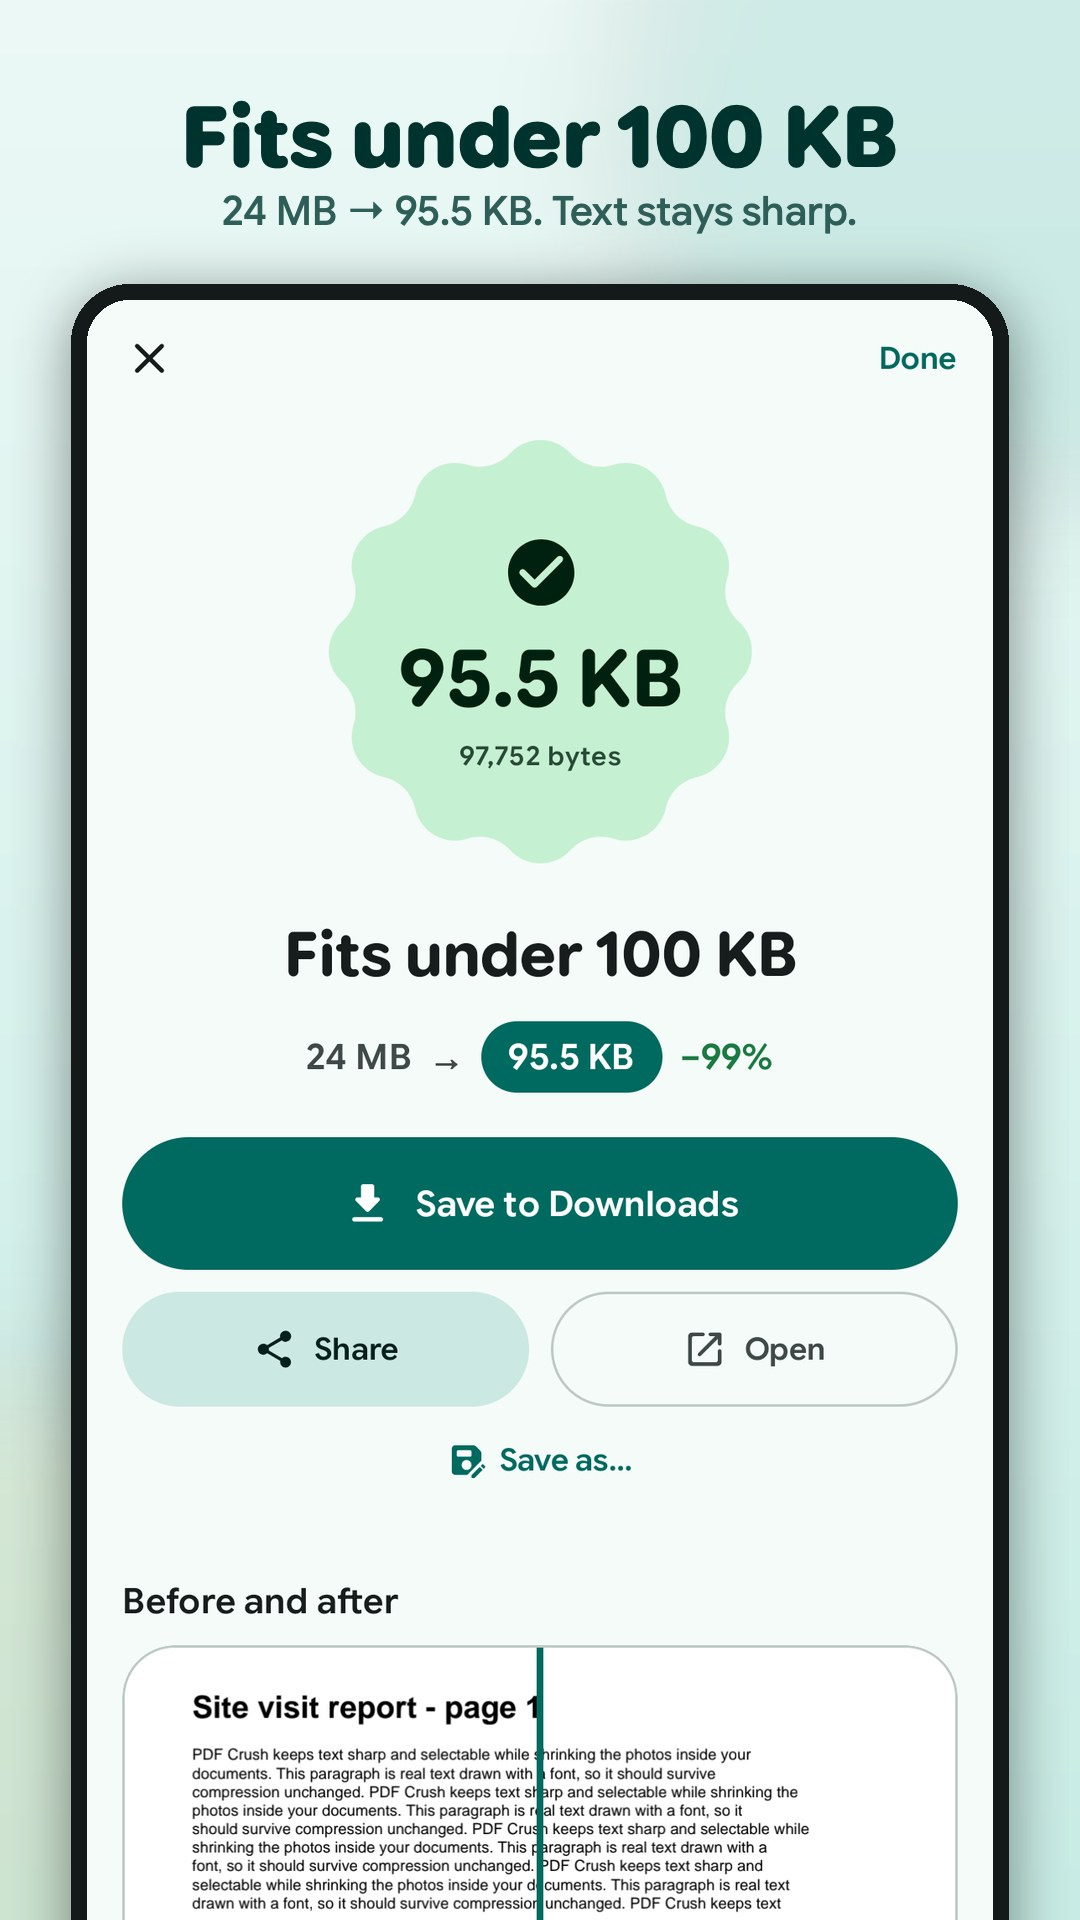
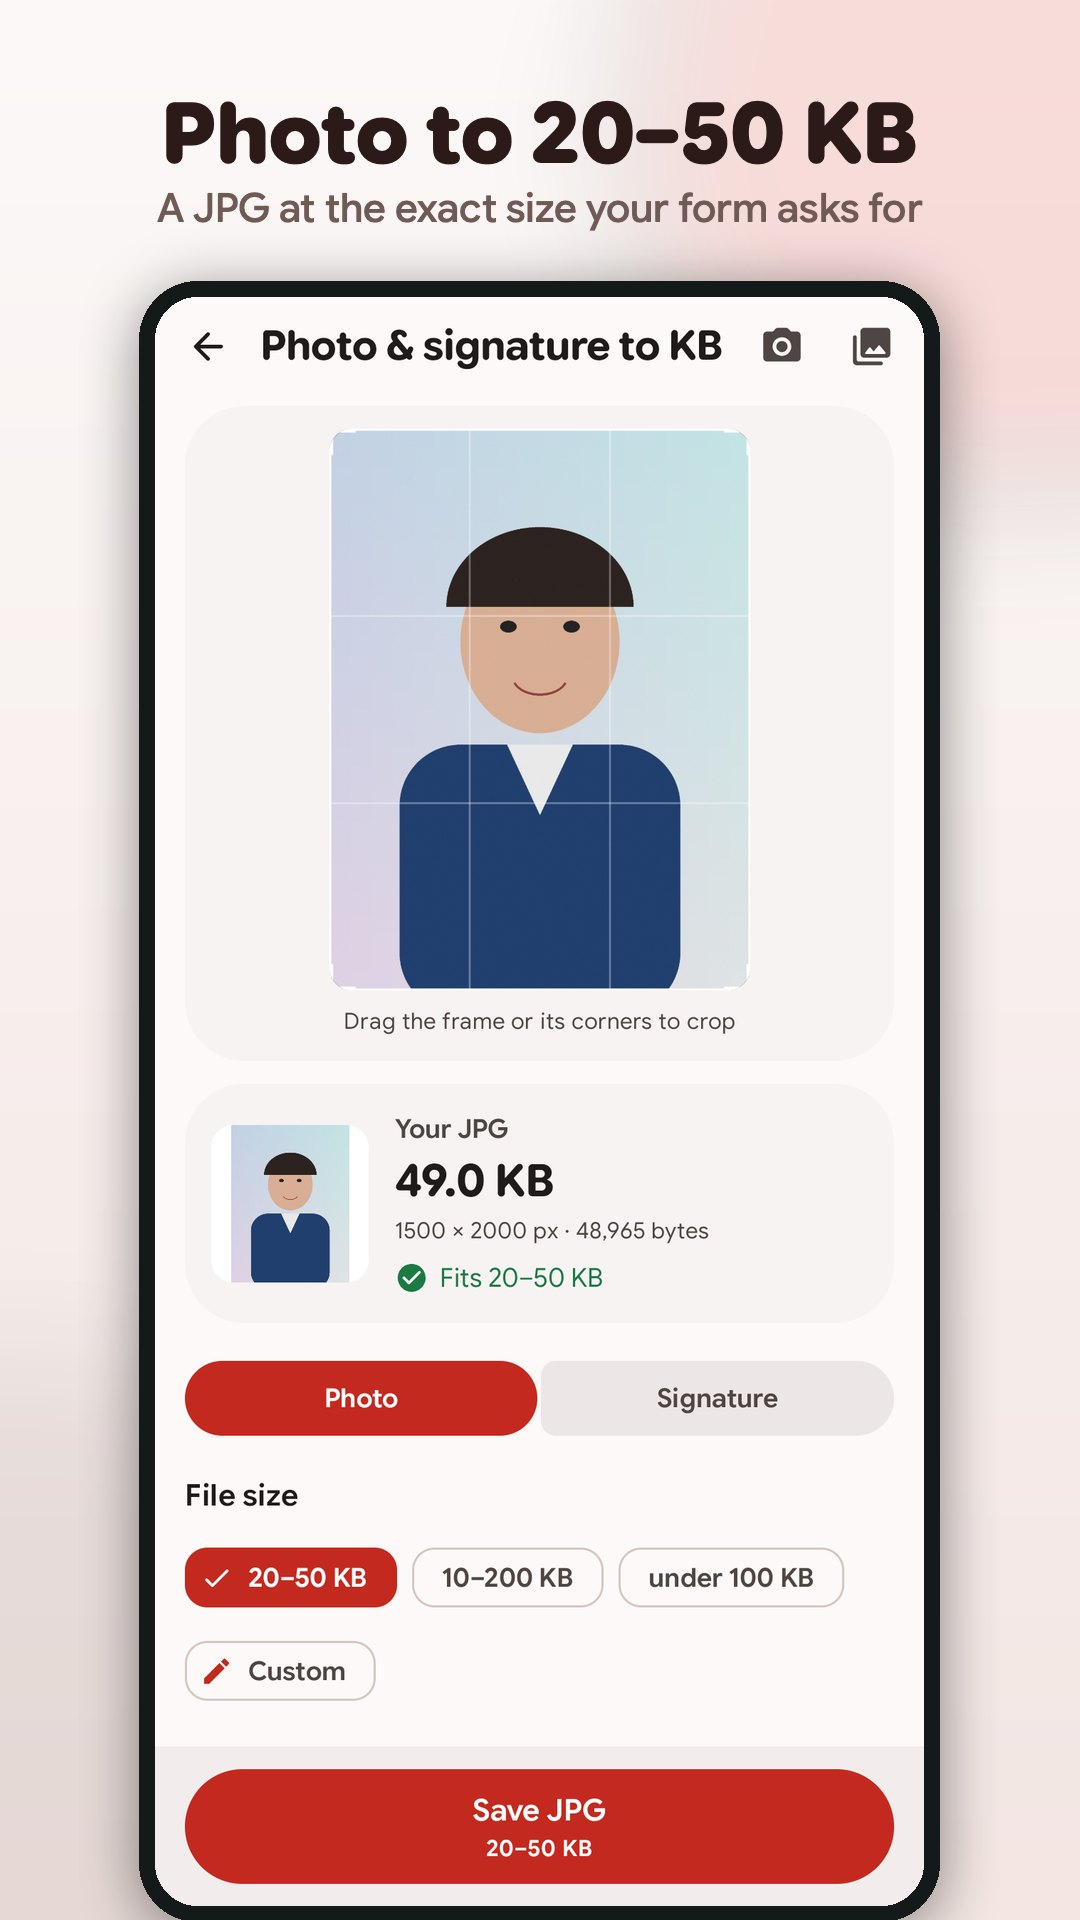
FitMyPDF rename (formerly PDF Crush)

diff --git a/press/pdf-crush.html b/press/pdf-crush.html
@@ -1,1 +1,1 @@
-<!doctype html><html lang="en"><head><meta charset="utf-8"><meta name="viewport" content="width=device-width,initial-scale=1"><title>PDF Crush press kit</title><meta name="description" content="Compress a PDF to the exact KB limit a form asks for. Free, no ads, works offline."><style>body{font:16px/1.6 system-ui,-apple-system,Segoe UI,Roboto,sans-serif;max-width:860px;margin:0 auto;padding:24px 16px;color:#1f2937;background:#fff}h1{font-size:26px;margin:.2em 0}h2{font-size:19px;margin-top:28px}a{color:#0b5cad}li{margin:4px 0}table{border-collapse:collapse}td{padding:4px 12px 4px 0;vertical-align:top}td:first-child{color:#6b7280;white-space:nowrap}.head{display:flex;gap:16px;align-items:center}.head img{width:88px;height:88px;border-radius:20px}.shots{display:grid;grid-template-columns:repeat(auto-fill,minmax(130px,1fr));gap:10px}.shots img{width:100%;border-radius:8px;border:1px solid #e5e7eb}.cards{display:grid;gap:14px}.card{display:flex;gap:14px;align-items:center;border:1px solid #e5e7eb;border-radius:12px;padding:12px}.card img{width:64px;height:64px;border-radius:14px}footer{margin-top:40px;color:#6b7280;font-size:14px}@media(prefers-color-scheme:dark){body{background:#111827;color:#e5e7eb}a{color:#7cb4f5}.card,.shots img{border-color:#374151}}</style></head><body><p><a href="./">Press kit</a></p><div class="head"><img src="pdfcrush-icon.png" alt="PDF Crush icon"><div><h1>PDF Crush: Compress PDF to KB</h1><div>Compress a PDF to the exact KB limit a form asks for. Free, no ads, works offline.</div></div></div><h2>About</h2><p>Exam, job and government portals reject uploads that miss a size limit: under 100 KB, under 200 KB, or &quot;between 50 KB and 300 KB&quot;. PDF Crush is a free Android app built for exactly that. Type the size you need and it finds the best quality that fits, keeping text sharp and selectable whenever the size allows; if a form also sets a minimum, a file that is too small is made bigger to meet it. It scans paper straight to a PDF at the size you choose, opens large PDFs quickly, and includes merge, split, images-to-PDF and password tools. There are no ads, no watermark and no limits, and the app has no internet permission, so files never leave the phone. A free browser version works on any computer, also without uploading anything.</p><h2>Key facts</h2><table><tr><td>Price</td><td>Free. No ads, no in-app purchases, no watermark, no daily limits</td></tr><tr><td>Platform</td><td>Android 8.1 and newer</td></tr><tr><td>Current version</td><td>3.1.0 (November 2026)</td></tr><tr><td>Languages</td><td>English, Hindi, Bengali, Indonesian, Portuguese, Spanish, Arabic, Vietnamese, Turkish, French</td></tr><tr><td>Web version</td><td><a href="https://dev114453.github.io/tools/compress-pdf.html">dev114453.github.io/tools/compress-pdf.html</a> (runs in the browser; the file is not uploaded)</td></tr><tr><td>Developer</td><td>developer1021</td></tr><tr><td>Google Play</td><td><a href="https://play.google.com/store/apps/details?id=com.pdfcompress.start">https://play.google.com/store/apps/details?id=com.pdfcompress.start</a></td></tr><tr><td>Press contact</td><td><a href="mailto:devloper1021@gmail.com">devloper1021@gmail.com</a></td></tr></table><h2>What is different</h2><ul><li>Compress to a target size (50 KB, 100 KB, 200 KB, 300 KB, 500 KB, 1 MB, 2 MB or any number), not a vague quality slider</li><li>A minimum size too, for forms that say &quot;50 to 300 KB&quot;: too-small files are made bigger</li><li>Text stays selectable when the size allows; if pages have to become images, the app says so</li><li>The result shows the exact size down to the byte and whether it fits</li><li>Document scanner that saves straight to 100 KB, 200 KB or 50 to 300 KB; black-and-white mode is often under 50 KB a page</li><li>Fast reader for 100+ MB, 150-page PDFs, with day, sepia and night modes</li></ul><h2>Privacy</h2><ul><li>No internet permission: the app cannot upload files</li><li>No storage permission, no account, no sign-in</li><li>Originals are never overwritten; results go to Downloads/PDF Crush</li><li>No ads and no analytics</li></ul><h2>Screenshots</h2><p>Click for full size (1080 x 1920). <a href="pdfcrush-icon.png">App icon (512 x 512)</a>.</p><div class="shots"><a href="pdfcrush-1.jpg"><img src="pdfcrush-1.jpg" alt="PDF Crush screenshot 1" loading="lazy"></a><a href="pdfcrush-2.jpg"><img src="pdfcrush-2.jpg" alt="PDF Crush screenshot 2" loading="lazy"></a><a href="pdfcrush-3.jpg"><img src="pdfcrush-3.jpg" alt="PDF Crush screenshot 3" loading="lazy"></a><a href="pdfcrush-4.jpg"><img src="pdfcrush-4.jpg" alt="PDF Crush screenshot 4" loading="lazy"></a><a href="pdfcrush-5.jpg"><img src="pdfcrush-5.jpg" alt="PDF Crush screenshot 5" loading="lazy"></a><a href="pdfcrush-6.jpg"><img src="pdfcrush-6.jpg" alt="PDF Crush screenshot 6" loading="lazy"></a></div><footer>Press kit by developer1021. Text, screenshots and icons are free to use in coverage with credit to the app name. Contact: <a href="mailto:devloper1021@gmail.com">devloper1021@gmail.com</a></footer></body></html>
+<!doctype html><html lang="en"><head><meta charset="utf-8"><meta name="viewport" content="width=device-width,initial-scale=1"><title>FitMyPDF press kit (formerly PDF Crush)</title><meta name="description" content="Compress a PDF, photo or signature to the exact KB limit a form asks for. Free, no ads, works offline."><style>body{font:16px/1.6 system-ui,-apple-system,Segoe UI,Roboto,sans-serif;max-width:860px;margin:0 auto;padding:24px 16px;color:#1f2937;background:#fff}h1{font-size:26px;margin:.2em 0}h2{font-size:19px;margin-top:28px}a{color:#0b5cad}li{margin:4px 0}table{border-collapse:collapse}td{padding:4px 12px 4px 0;vertical-align:top}td:first-child{color:#6b7280;white-space:nowrap}.head{display:flex;gap:16px;align-items:center}.head img{width:88px;height:88px;border-radius:20px}.shots{display:grid;grid-template-columns:repeat(auto-fill,minmax(130px,1fr));gap:10px}.shots img{width:100%;border-radius:8px;border:1px solid #e5e7eb}.cards{display:grid;gap:14px}.card{display:flex;gap:14px;align-items:center;border:1px solid #e5e7eb;border-radius:12px;padding:12px}.card img{width:64px;height:64px;border-radius:14px}footer{margin-top:40px;color:#6b7280;font-size:14px}@media(prefers-color-scheme:dark){body{background:#111827;color:#e5e7eb}a{color:#7cb4f5}.card,.shots img{border-color:#374151}}</style></head><body><p><a href="./">Press kit</a></p><div class="head"><img src="pdfcrush-icon.png" alt="FitMyPDF icon"><div><h1>FitMyPDF: Compress PDF to KB</h1><div><em>Formerly PDF Crush.</em> Renamed in version 3.3 (November 2026): same app, same Google Play link.</div><div>Compress a PDF, photo or signature to the exact KB limit a form asks for. Free, no ads, works offline.</div></div></div><h2>About</h2><p>Exam, job and government portals reject uploads that miss a size limit: under 100 KB, under 200 KB, or &quot;between 50 KB and 300 KB&quot;. FitMyPDF (formerly PDF Crush) is a free Android app built for exactly that. Type the size you need and it finds the best quality that fits, keeping text sharp and selectable whenever the size allows; if a form also sets a minimum, a file that is too small is made bigger to meet it. It also turns a photo or signature into a JPG of the exact KB range and pixel size a form asks for, with presets read from official notices (JEE Main, NEET UG, UPSC, SSC CHSL). It scans paper straight to a PDF at the size you choose, opens large PDFs quickly, and includes merge, split, images-to-PDF and password tools. There are no ads, no watermark and no limits, and the app has no internet permission, so files never leave the phone. A free browser version works on any computer, also without uploading anything.</p><h2>Key facts</h2><table><tr><td>Price</td><td>Free. No ads, no in-app purchases, no watermark, no daily limits</td></tr><tr><td>Platform</td><td>Android 8.1 and newer</td></tr><tr><td>Current version</td><td>3.3.0 (November 2026)</td></tr><tr><td>Languages</td><td>English, Hindi, Bengali, Indonesian, Portuguese, Spanish, Arabic, Vietnamese, Turkish, French</td></tr><tr><td>Web version</td><td><a href="https://dev114453.github.io/tools/compress-pdf.html">dev114453.github.io/tools/compress-pdf.html</a> (runs in the browser; the file is not uploaded)</td></tr><tr><td>Developer</td><td>developer1021</td></tr><tr><td>Google Play</td><td><a href="https://play.google.com/store/apps/details?id=com.pdfcompress.start">https://play.google.com/store/apps/details?id=com.pdfcompress.start</a></td></tr><tr><td>Press contact</td><td><a href="mailto:devloper1021@gmail.com">devloper1021@gmail.com</a></td></tr></table><h2>What is different</h2><ul><li>Compress to a target size (50 KB, 100 KB, 200 KB, 300 KB, 500 KB, 1 MB, 2 MB or any number), not a vague quality slider</li><li>A minimum size too, for forms that say &quot;50 to 300 KB&quot;: too-small files are made bigger</li><li>Text stays selectable when the size allows; if pages have to become images, the app says so</li><li>The result shows the exact size down to the byte and whether it fits</li><li>Photo &amp; signature to KB: a JPG between, say, 20 and 50 KB or 10 and 20 KB, at the exact pixel size, with a crop frame</li><li>Document scanner that saves straight to 100 KB, 200 KB or 50 to 300 KB; black-and-white mode is often under 50 KB a page</li><li>Fast reader for 100+ MB, 150-page PDFs, with day, sepia and night modes</li></ul><h2>Privacy</h2><ul><li>No internet permission: the app cannot upload files</li><li>No storage permission, no account, no sign-in</li><li>Originals are never overwritten; results go to Downloads/FitMyPDF</li><li>No ads and no analytics</li></ul><h2>Screenshots</h2><p>Click for full size (1080 x 1920). <a href="pdfcrush-icon.png">App icon (512 x 512)</a>.</p><div class="shots"><a href="pdfcrush-1.jpg"><img src="pdfcrush-1.jpg" alt="FitMyPDF screenshot 1" loading="lazy"></a><a href="pdfcrush-2.jpg"><img src="pdfcrush-2.jpg" alt="FitMyPDF screenshot 2" loading="lazy"></a><a href="pdfcrush-3.jpg"><img src="pdfcrush-3.jpg" alt="FitMyPDF screenshot 3" loading="lazy"></a><a href="pdfcrush-4.jpg"><img src="pdfcrush-4.jpg" alt="FitMyPDF screenshot 4" loading="lazy"></a><a href="pdfcrush-5.jpg"><img src="pdfcrush-5.jpg" alt="FitMyPDF screenshot 5" loading="lazy"></a><a href="pdfcrush-6.jpg"><img src="pdfcrush-6.jpg" alt="FitMyPDF screenshot 6" loading="lazy"></a></div><footer>Press kit by developer1021. Text, screenshots and icons are free to use in coverage with credit to the app name. Contact: <a href="mailto:devloper1021@gmail.com">devloper1021@gmail.com</a></footer></body></html>

diff --git a/press/index.html b/press/index.html
@@ -1,1 +1,1 @@
-<!doctype html><html lang="en"><head><meta charset="utf-8"><meta name="viewport" content="width=device-width,initial-scale=1"><title>developer1021 press kit</title><meta name="description" content="Press kit for PDF Crush, Tonal and Bhakti Path by developer1021."><style>body{font:16px/1.6 system-ui,-apple-system,Segoe UI,Roboto,sans-serif;max-width:860px;margin:0 auto;padding:24px 16px;color:#1f2937;background:#fff}h1{font-size:26px;margin:.2em 0}h2{font-size:19px;margin-top:28px}a{color:#0b5cad}li{margin:4px 0}table{border-collapse:collapse}td{padding:4px 12px 4px 0;vertical-align:top}td:first-child{color:#6b7280;white-space:nowrap}.head{display:flex;gap:16px;align-items:center}.head img{width:88px;height:88px;border-radius:20px}.shots{display:grid;grid-template-columns:repeat(auto-fill,minmax(130px,1fr));gap:10px}.shots img{width:100%;border-radius:8px;border:1px solid #e5e7eb}.cards{display:grid;gap:14px}.card{display:flex;gap:14px;align-items:center;border:1px solid #e5e7eb;border-radius:12px;padding:12px}.card img{width:64px;height:64px;border-radius:14px}footer{margin-top:40px;color:#6b7280;font-size:14px}@media(prefers-color-scheme:dark){body{background:#111827;color:#e5e7eb}a{color:#7cb4f5}.card,.shots img{border-color:#374151}}</style></head><body><h1>developer1021 press kit</h1><p>developer1021 makes small, private Android apps. The apps below are free, have no ads and work offline. Each page has a short description, key facts, privacy facts, screenshots and the icon.</p><div class="cards"><div class="card"><img src="pdfcrush-icon.png" alt=""><div><b><a href="pdf-crush.html">PDF Crush: Compress PDF to KB</a></b><br>Compress a PDF to the exact KB limit a form asks for. Free, no ads, works offline.</div></div><div class="card"><img src="tonal-icon.png" alt=""><div><b><a href="tonal.html">Tonal: Photo Editor &amp; Presets</a></b><br>A free pro photo editor that imports XMP/DNG presets and .cube LUTs. No ads, no subscription, offline.</div></div><div class="card"><img src="bhaktipath-icon.png" alt=""><div><b><a href="bhakti-path.html">Bhakti Path: Hanuman Chalisa</a></b><br>Hanuman Chalisa, aarti, the Bhagavad Gita and mantra jaap for daily puja. Free, no ads, no login, offline.</div></div></div><h2>Contact</h2><p>Questions, review access or more screenshots: <a href="mailto:devloper1021@gmail.com">devloper1021@gmail.com</a>. We answer by email.</p><h2>Use</h2><p>Everything here is free to use in articles and videos with credit to the app name.</p><p><a href="../">All developer1021 apps</a></p><footer>Press kit by developer1021. Text, screenshots and icons are free to use in coverage with credit to the app name. Contact: <a href="mailto:devloper1021@gmail.com">devloper1021@gmail.com</a></footer></body></html>
+<!doctype html><html lang="en"><head><meta charset="utf-8"><meta name="viewport" content="width=device-width,initial-scale=1"><title>developer1021 press kit</title><meta name="description" content="Press kit for FitMyPDF (formerly PDF Crush), Tonal and Bhakti Path by developer1021."><style>body{font:16px/1.6 system-ui,-apple-system,Segoe UI,Roboto,sans-serif;max-width:860px;margin:0 auto;padding:24px 16px;color:#1f2937;background:#fff}h1{font-size:26px;margin:.2em 0}h2{font-size:19px;margin-top:28px}a{color:#0b5cad}li{margin:4px 0}table{border-collapse:collapse}td{padding:4px 12px 4px 0;vertical-align:top}td:first-child{color:#6b7280;white-space:nowrap}.head{display:flex;gap:16px;align-items:center}.head img{width:88px;height:88px;border-radius:20px}.shots{display:grid;grid-template-columns:repeat(auto-fill,minmax(130px,1fr));gap:10px}.shots img{width:100%;border-radius:8px;border:1px solid #e5e7eb}.cards{display:grid;gap:14px}.card{display:flex;gap:14px;align-items:center;border:1px solid #e5e7eb;border-radius:12px;padding:12px}.card img{width:64px;height:64px;border-radius:14px}footer{margin-top:40px;color:#6b7280;font-size:14px}@media(prefers-color-scheme:dark){body{background:#111827;color:#e5e7eb}a{color:#7cb4f5}.card,.shots img{border-color:#374151}}</style></head><body><h1>developer1021 press kit</h1><p>developer1021 makes small, private Android apps. The apps below are free, have no ads and work offline. Each page has a short description, key facts, privacy facts, screenshots and the icon.</p><div class="cards"><div class="card"><img src="pdfcrush-icon.png" alt=""><div><b><a href="pdf-crush.html">FitMyPDF: Compress PDF to KB</a> (formerly PDF Crush)</b><br>Compress a PDF to the exact KB limit a form asks for. Free, no ads, works offline.</div></div><div class="card"><img src="tonal-icon.png" alt=""><div><b><a href="tonal.html">Tonal: Photo Editor &amp; Presets</a></b><br>A free pro photo editor that imports XMP/DNG presets and .cube LUTs. No ads, no subscription, offline.</div></div><div class="card"><img src="bhaktipath-icon.png" alt=""><div><b><a href="bhakti-path.html">Bhakti Path: Hanuman Chalisa</a></b><br>Hanuman Chalisa, aarti, the Bhagavad Gita and mantra jaap for daily puja. Free, no ads, no login, offline.</div></div></div><h2>Contact</h2><p>Questions, review access or more screenshots: <a href="mailto:devloper1021@gmail.com">devloper1021@gmail.com</a>. We answer by email.</p><h2>Use</h2><p>Everything here is free to use in articles and videos with credit to the app name.</p><p><a href="../">All developer1021 apps</a></p><footer>Press kit by developer1021. Text, screenshots and icons are free to use in coverage with credit to the app name. Contact: <a href="mailto:devloper1021@gmail.com">devloper1021@gmail.com</a></footer></body></html>
